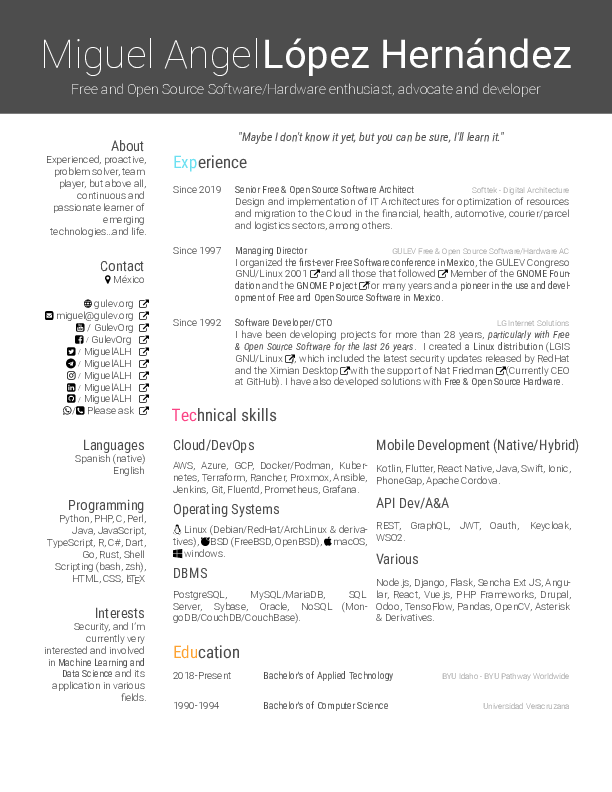
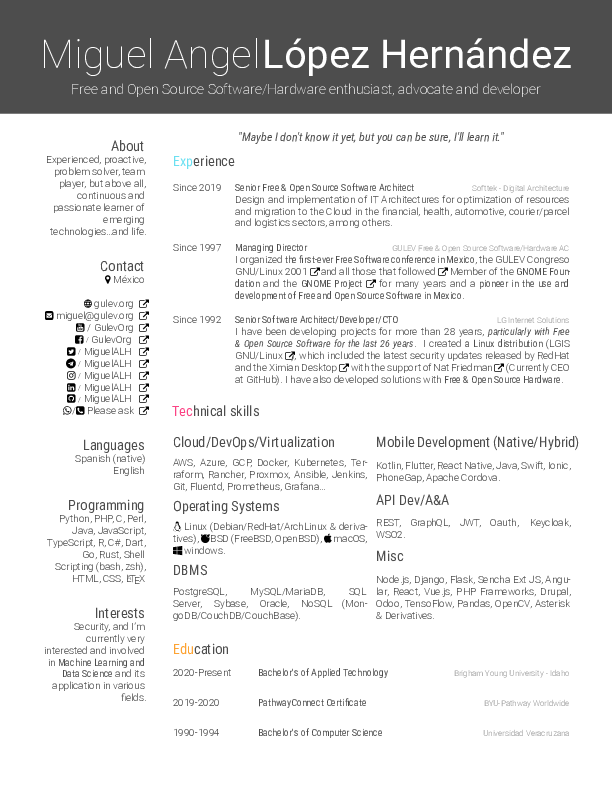
Education updated

diff --git a/MiguelALH-cv-en.tex b/MiguelALH-cv-en.tex
@@ -61,22 +61,22 @@
     {Since 1997}
     {Managing Director}
     {GULEV Free \& Open Source Software/Hardware AC}
-    {I organized \textbf{the first-ever Free Software conference in Mexico}, the \href{http://gulev.org.mx/eventos/gulev2001}{GULEV Congreso GNU/Linux 2001~{\nfURL}}~ and \href{http://gulev.org.mx/conferences}{all those that followed~{\nfURL}}. Member of the \textbf{GNOME Foundation} and the \href{https://www.gnome.org/}{\textbf{GNOME Project}~{\nfURL}} for many years and a \textbf{pioneer in the use and development of Free and Open Source Software in Mexico}. }
+    {I organized \textbf{the first-ever Free Software conference in Mexico}, the \href{http://gulev.org.mx/eventos/gulev2001}{GULEV Congreso GNU/Linux 2001~{\nfURL}}~ and \href{http://gulev.org.mx/conferences}{all those that followed~{\nfURL}}. Member of the \textbf{GNOME Foundation} and the \href{https://www.gnome.org/}{\textbf{GNOME Project}~{\nfURL}}~ for many years and a \textbf{pioneer in the use and development of Free and Open Source Software in Mexico}. }
 \end{entrylist}
 
 \begin{entrylist}
     \entry%
     {Since 1992}
-    {Software Developer/CTO}
+    {Senior Software Architect/Developer/CTO}
     {LG Internet Solutions}
-    {I have been developing projects for more than 28 years, \textbf{\textit{particularly with Free \& Open Source Software for the last 26 years}}. I created \textbf{a Linux distribution} (\href{https://distrowatch.com/table.php?distribution=lgis}{LGIS GNU/Linux~{\nfURL}}), which included the latest security updates released by RedHat and the \href{https://en.wikipedia.org/wiki/Ximian}{Ximian Desktop~{\nfURL}}, with the support of \href{https://www.linkedin.com/in/natfriedman/}{Nat Friedman~{\nfURL}}, (Currently CEO at GitHub). I have also developed solutions with \textbf{Free \& Open Source Hardware}.}
+    {I have been developing projects for more than 28 years, \textbf{\textit{particularly with Free \& Open Source Software for the last 26 years}}. I created \textbf{a Linux distribution} (\href{https://distrowatch.com/table.php?distribution=lgis}{LGIS GNU/Linux~{\nfURL}}), which included the latest security updates released by RedHat and the \href{https://en.wikipedia.org/wiki/Ximian}{Ximian Desktop~{\nfURL}},~ with the support of \href{https://www.linkedin.com/in/natfriedman/}{Nat Friedman~{\nfURL}},~ (Currently CEO at GitHub). I have also developed solutions with \textbf{Free \& Open Source Hardware}.}
 \end{entrylist}
 
 \section{Technical skills}
 
 \begin{multicols}{2}
-    \subsection{Cloud/DevOps}
-    AWS, Azure, GCP, Docker/Podman, Kubernetes, Terraform, Rancher, Proxmox, Ansible, Jenkins, Git, Fluentd, Prometheus, Grafana.
+    \subsection{Cloud/DevOps/Virtualization}
+    AWS, Azure, GCP, Docker, Kubernetes, Terraform, Rancher, Proxmox, Ansible, Jenkins, Git, Fluentd, Prometheus, Grafana\dots
  
     \subsection{Operating Systems}
     {\faLinux}~Linux (Debian/RedHat/ArchLinux \& derivatives), {\nfBsd}~~BSD (FreeBSD, OpenBSD), {\faApple}~macOS, {\nfWindows}~~windows.
@@ -90,7 +90,7 @@
     \subsection{API Dev/A\&A}
     REST, GraphQL, JWT, Oauth, Keycloak, WSO2.
 
-    \subsection{Various}
+    \subsection{Misc}
     Node.js, Django, Flask, Sencha Ext JS, Angular, React, Vue.js, PHP Frameworks, Drupal, Odoo, TensoFlow, Pandas, OpenCV, Asterisk \& Derivatives.
 
 \end{multicols}
@@ -99,9 +99,16 @@
 
 \begin{entrylist}
     \entryedu%
-    {2018-Present}
+    {2020-Present}
     {Bachelor's of Applied Technology}
-    {BYU Idaho - BYU Pathway Worldwide}
+    {Brigham Young University - Idaho}
+\end{entrylist}
+
+\begin{entrylist}
+    \entryedu%
+    {2019-2020}
+    {PathwayConnect Certificate}
+    {BYU-Pathway Worldwide}
 \end{entrylist}
 
 \begin{entrylist}
